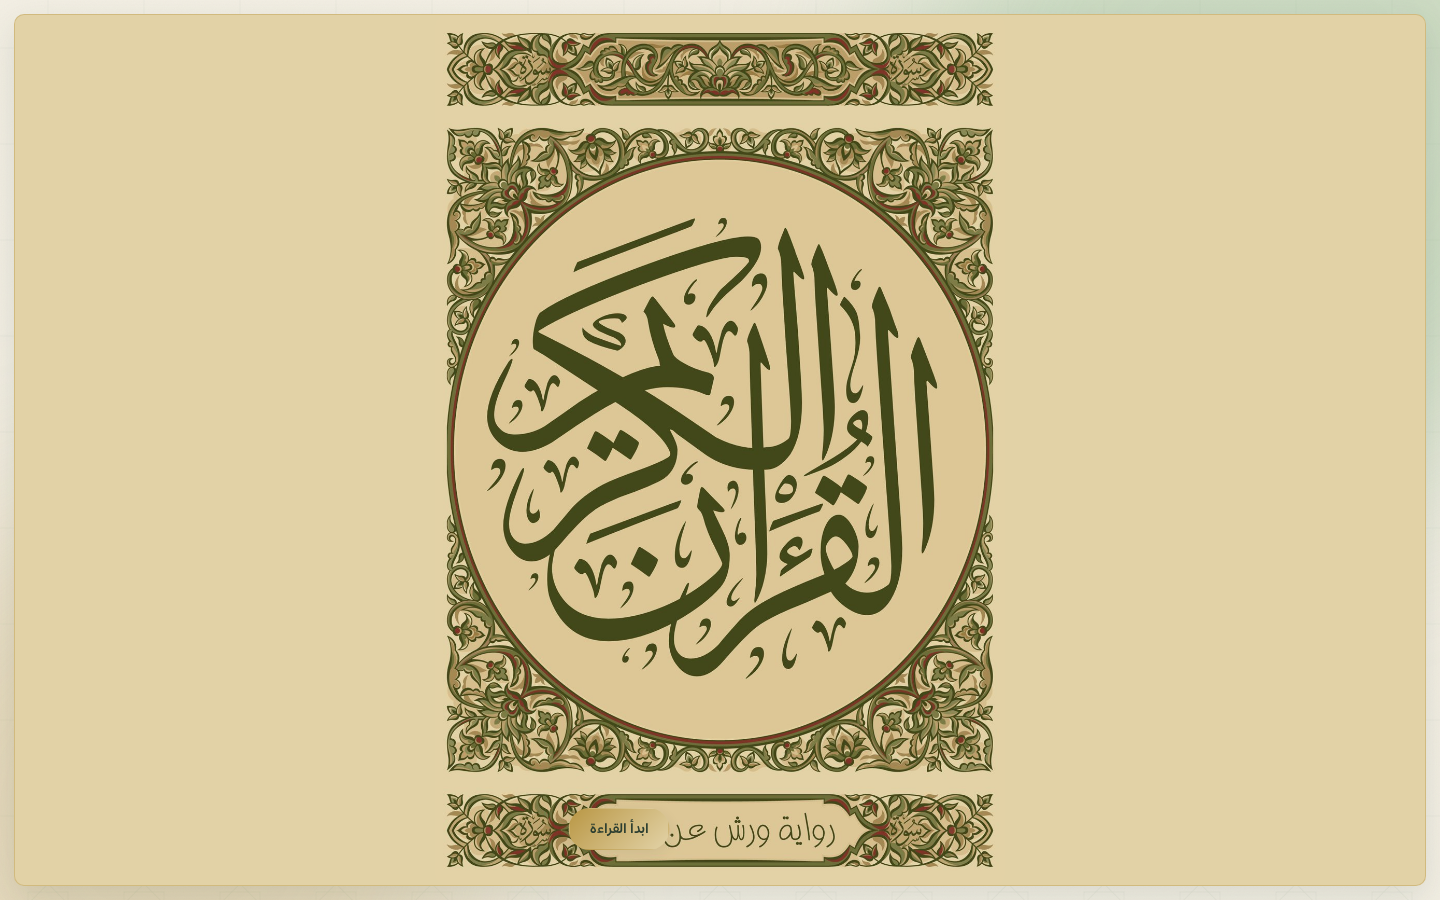
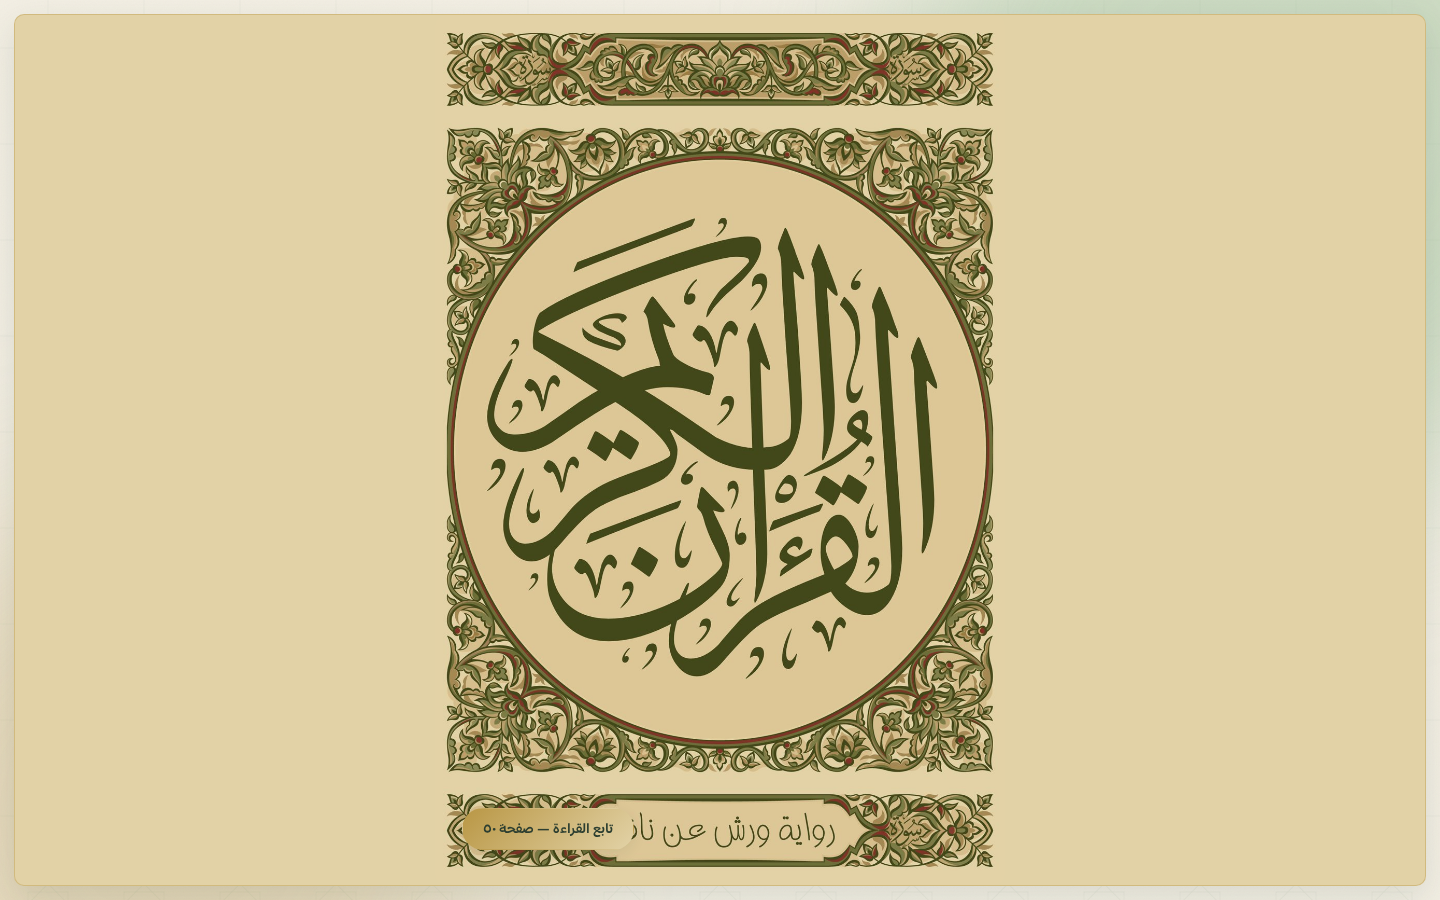
Mushaf cover is the entry screen on every visit with resume-to-last-page button

Changed region(s): [[0.3125, 0.8711, 0.4688, 0.9644]]

diff --git a/src/styles/global.css b/src/styles/global.css
@@ -477,6 +477,7 @@ body.mushaf-full #view{flex:1;min-height:0;display:flex;flex-direction:column}
 .mushaf-cover{position:relative;width:100%;height:100%;display:flex;align-items:center;justify-content:center;cursor:pointer;
   border-radius:10px;overflow:hidden;background:#E2D2A6;border:1px solid rgba(186,151,67,.4);box-shadow:var(--shadow)}
 .mushaf-cover img{max-width:100%;max-height:100%;object-fit:contain;border-radius:10px}
+.mushaf-cover img.broken{display:none}
 .mc-open{position:absolute;bottom:4%;inset-inline-start:50%;transform:translateX(-50%);box-shadow:var(--shadow2)}
 .mushaf-page{height:100%;display:flex;justify-content:center;background:#fff;border-radius:6px}
 [data-theme="dark"] .mushaf-page{background:#0D0F12}

diff --git a/docs/ROADMAP.md b/docs/ROADMAP.md
@@ -20,12 +20,14 @@ sidebar tab showing real page images.
 
 - Sidebar tab "المصحف / Mushaf": **fullscreen immersive reading mode** —
   while in the tab the sidebar, top bar, player bar and NP panel are all
-  hidden; clicking the tab opens the **last viewed page directly** (no
-  surah index; surah navigation will return later as a tab bar).
-- First visit shows the **cover page** — the provided ornamental cover
+  hidden; the surah index is removed (surah navigation will return later
+  as a tab bar).
+- Every entry shows the **cover page** — the provided ornamental cover
   artwork (`public/mushaf-cover.jpg`, compressed from the original 1640×
-  2500 upload to a 1100px JPEG) at full container width with a gold
-  Start-reading button; tapping it opens the mushaf at page 1.
+  2500 upload to a 1100px JPEG) at full container width; its button reads
+  "تابع القراءة — صفحة N" (continue at last page) once a page was read,
+  "ابدأ القراءة" on first visit — tapping it opens the **last viewed page
+  directly**.
 - Reader top/bottom bars are **hidden by default** and overlay the page:
   tap the page (or use the arrow keys) to reveal them; they auto-hide
   after 3 seconds. Back and close buttons return to Home.
